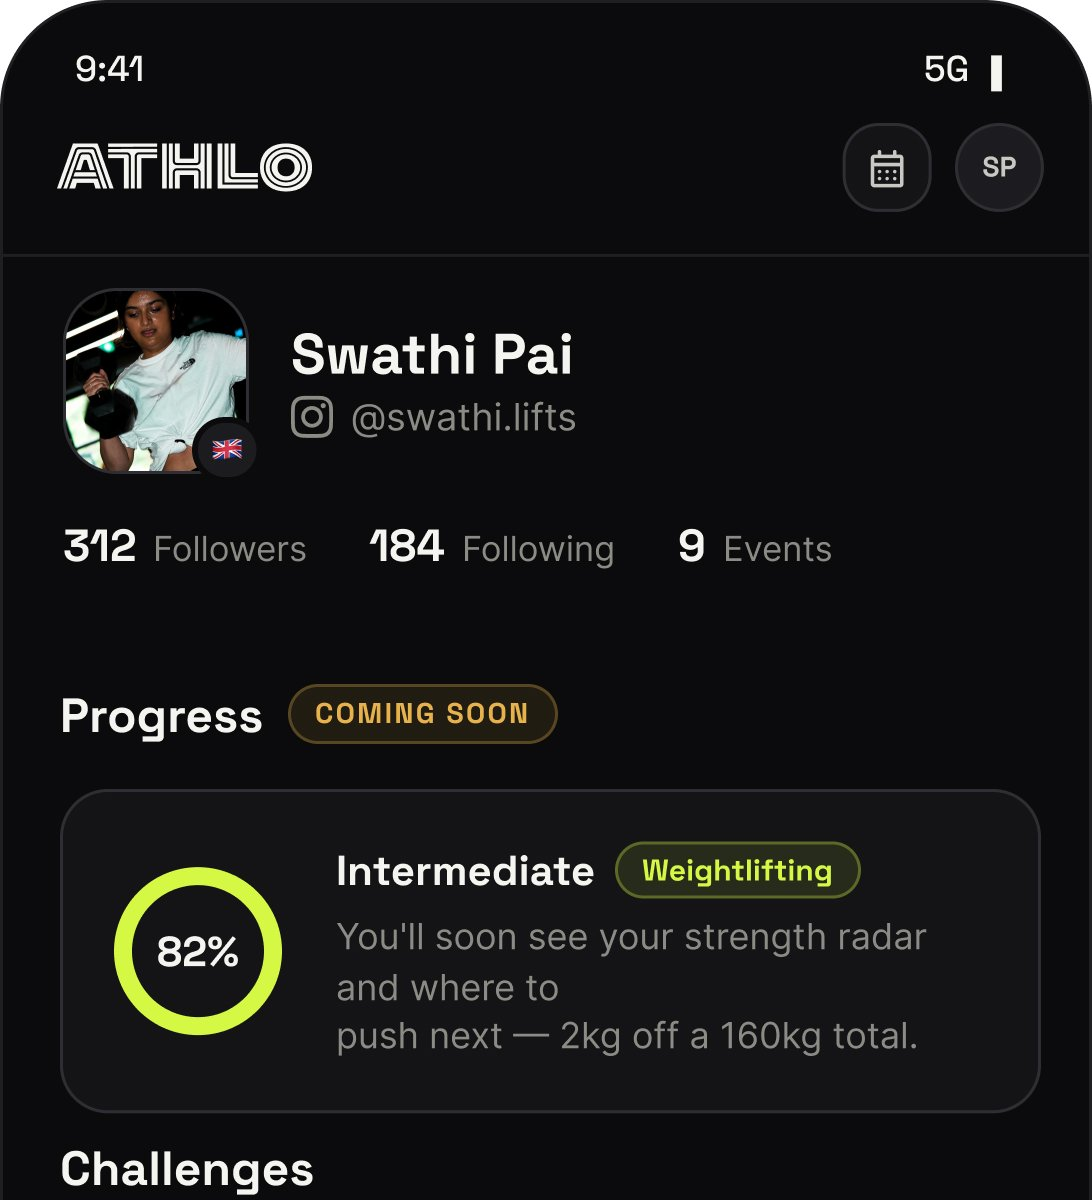
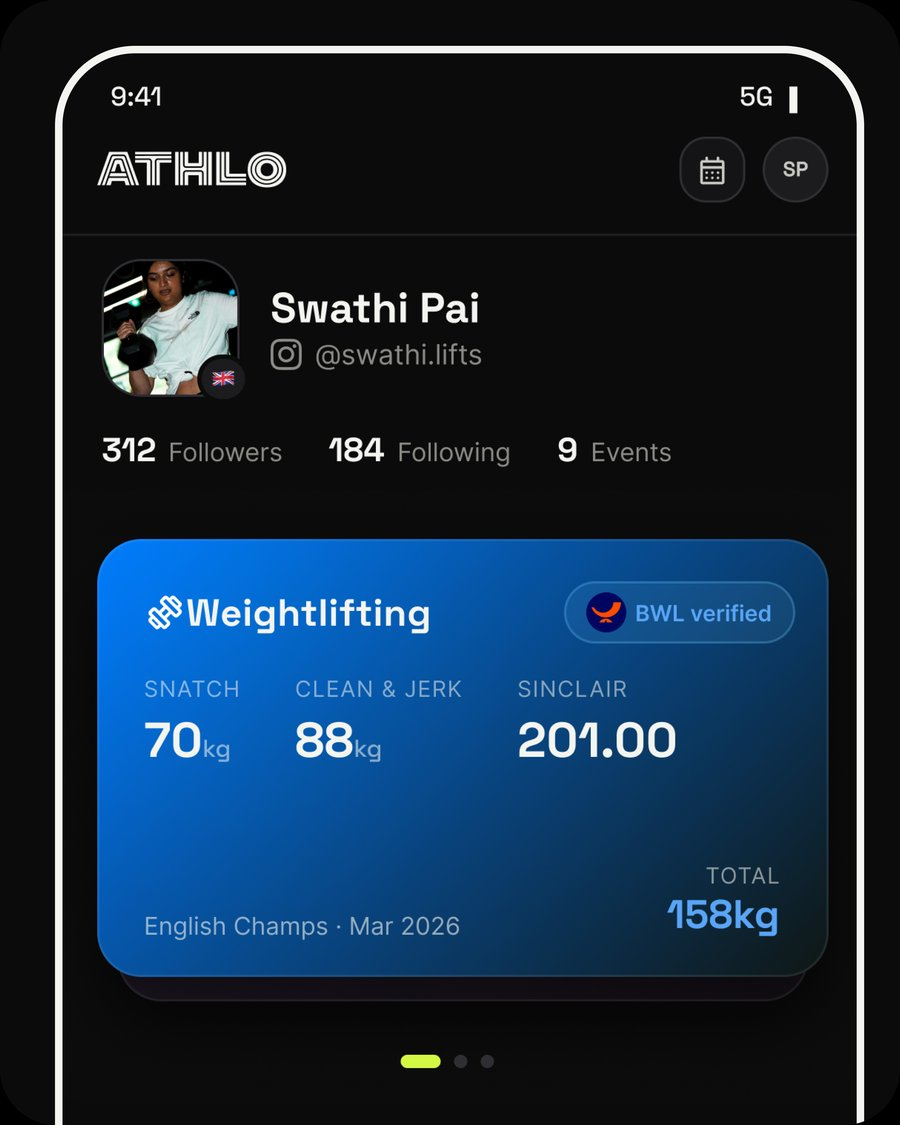
Replace the three athlete How-it-works images with purpose-built graphics
Swapped in the three new images (from Athlete.zip, matched by filename to
card): a Discover feed with sport/community tags for "Find the right
competition for you," a challenges screen with attendance progress bars
unlocking discounts and free merch for "Get rewarded for showing up,"
and a BWL-verified weightlifting result card (snatch/clean & jerk/
Sinclair/total) for "Build your athlete record." These are direct,
purpose-built visual matches for each card's copy — a clear improvement
over the previous screenshots, which were repurposed from unrelated app
screens (My Clubs standing in for "rewards," a generic profile page
standing in for "record").

Downsized from the supplied 3240x4050 PNGs to 900x1125 (same 4:5 ratio,
matching the organiser cards) at ~80-135KB each. All three athlete cards
now share one ratioClassName again instead of three different crop
heights, so the flex-1 row-alignment fix from last commit is what keeps
titles lined up — worth keeping regardless, since nothing guarantees
future image swaps stay same-ratio.

Verified with Playwright at 375/768/1024/1440px: correct image per card,
titles/subtitles still aligned across the row, no horizontal overflow, no
console errors. Production build is green.

Claude-Session: https://claude.ai/code/session_01DSGvGBoQ75E8TMBePmeb22

diff --git a/components/marketing/how-it-works.tsx b/components/marketing/how-it-works.tsx
@@ -55,28 +55,25 @@ const ATHLETE_CARDS: CardContent[] = [
     title: "Find the right competition for you",
     label: "Discover",
     subtitle: "Matched to your sport, level, weight class and location — not just whoever's nearest.",
-    alt: "Athlo Club Discover screen showing nearby strength events — Weekend Warrior WOD and Deadlift Club — with distance, going count and price.",
+    alt: "Athlo Club Discover screen showing nearby strength events with sport and community tags — Snatch it, HYROX ready, Strong Girls Lift, Deadlift Club — matched to the athlete.",
     imageSrc: "/home/athlete-1.jpg",
-    // Cropped from the full 1092x2475 screenshot down to the nav, search,
-    // filters and two event cards — the long tail of the scrollable list
-    // added height without adding anything legible at thumbnail size.
-    ratioClassName: "aspect-[1092/1890]",
+    ratioClassName: "aspect-[4/5]",
   },
   {
     title: "Get rewarded for showing up",
     label: "Rewards",
     subtitle: "Enter events, try new sports and join clubs to unlock discounts and kit.",
-    alt: "Athlo Club My Clubs screen showing a club the athlete created and a followed club with a new-event notification.",
+    alt: "Athlo Club recommended-challenges screen showing event-attendance progress bars unlocking discounts, zero platform fees and free merch, plus a badges row.",
     imageSrc: "/home/athlete-2.jpg",
-    ratioClassName: "aspect-[1092/1770]",
+    ratioClassName: "aspect-[4/5]",
   },
   {
     title: "Build your athlete record",
     label: "Your record",
     subtitle: "Every result, PR and ranking across every strength sport, in one profile.",
-    alt: "Athlo Club profile screen showing follower/event stats and a strength progress ring at 82% intermediate.",
+    alt: "Athlo Club profile screen showing a BWL-verified weightlifting result card with snatch, clean & jerk, Sinclair score and total.",
     imageSrc: "/home/athlete-3.jpg",
-    ratioClassName: "aspect-[1092/1200]",
+    ratioClassName: "aspect-[4/5]",
   },
 ];
 
